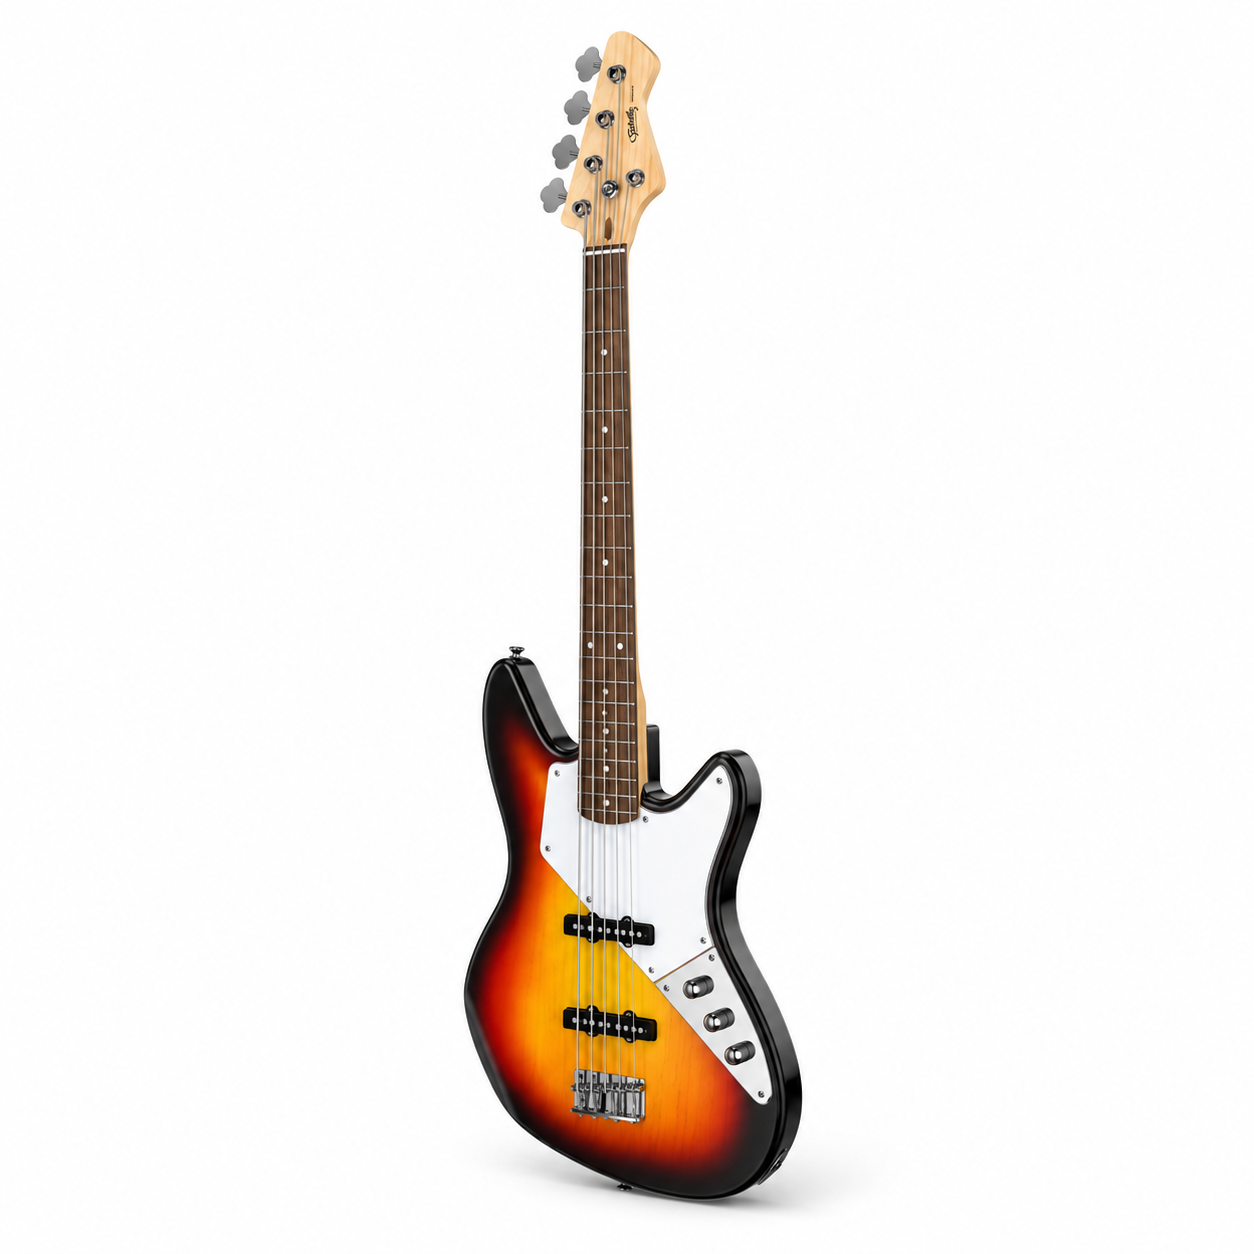
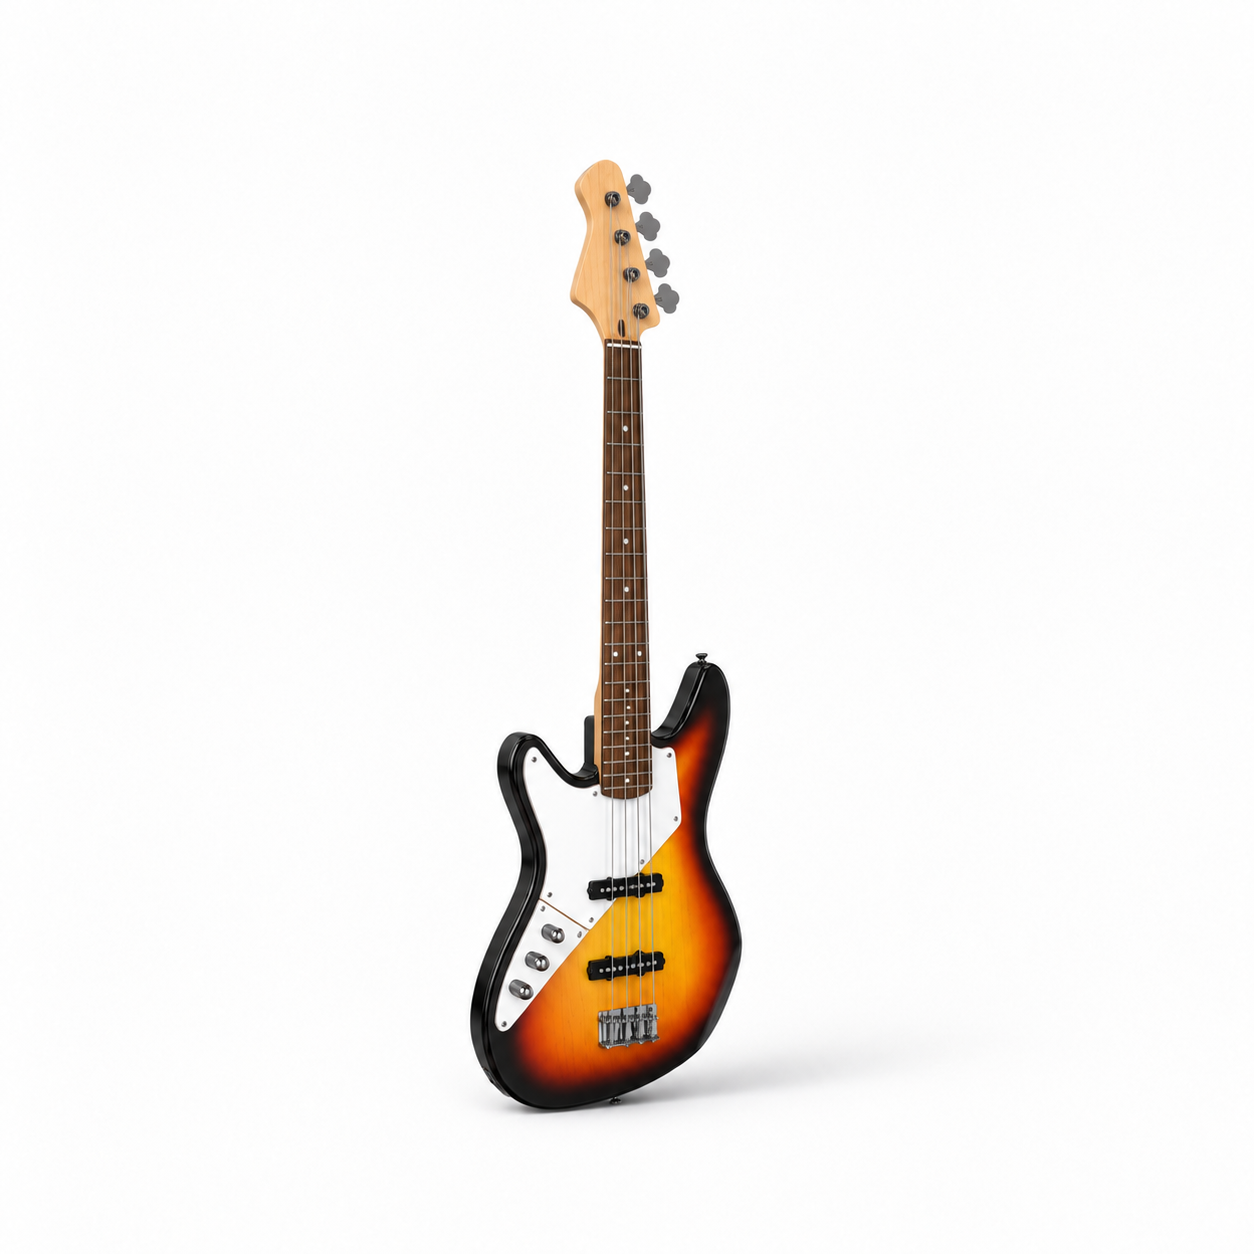
feat(tonante): categorias ganham foto de estúdio e preço perde o traço solto
As 12 categorias da home trocam o PNG recortado por foto de estúdio com
ciclorama e sombra de contato. Como a arte agora traz o próprio fundo, ela
preenche o círculo inteiro (object-cover, sem multiply): com `contain` a
borda do quadrado branco aparecia contra o cinza do card e lia como imagem
cortada do lado direito. Os ajustes de enquadramento (crop/zoom/focus/flip/
offsetX) saem junto — recortar de novo comeria a sombra, que é metade do
desenho da foto.

Entram também as artes de Viola (era fallback) e Microfone.

No card v2, o riscado do preço antigo só aparece quando existe preço antigo.
A linha reserva altura mesmo sem promoção, para a fileira de preços não ficar
em serra, mas o `line-through` estava aplicado sempre e riscava o espaço em
branco — virava um tracinho solto embaixo da avaliação.

Changed region(s): [[0.3732, 0.0311, 0.6531, 0.9641]]

diff --git a/empresas/tonante/projetos/website/versoes/v1/src/app/v2/CategoriasV2.tsx b/empresas/tonante/projetos/website/versoes/v1/src/app/v2/CategoriasV2.tsx
@@ -19,7 +19,12 @@ const fallback = (category: string, subMatch?: string) => {
 };
 
 /* Instrumento é alto e fino: em `contain` ele vira um palito no card.
-   `crop` enquadra o corpo (parte mais larga) e deixa o braço sair pra fora. */
+   `crop` enquadra o corpo (parte mais larga) e deixa o braço sair pra fora.
+
+   As artes de estúdio (set/2026) já vêm quadradas, com o produto na escala certa
+   e sombra de contato no chão branco, então elas entram sem crop, zoom ou flip —
+   recortar de novo cortaria a sombra, que é metade do desenho da foto. As props
+   continuam aqui para quando alguma categoria voltar a usar arte recortada. */
 type Cat = {
   label: string;
   art: string;
@@ -40,20 +45,17 @@ type Cat = {
 
 const CATS: Cat[] = [
   /* 1ª linha — instrumentos, na ordem de tamanho do catálogo */
-  { crop: true, focus: "50% 100%", zoom: 1.4, label: "Violões", art: "/categorias/violao.png", href: getCatalogHref({ category: "Violões" }), fallbackImg: fallback("Violões") },
-  /* /categorias/guitarra.png é um contrabaixo preto (4 cordas, 4 tarraxas em
-     linha, corpo Jazz Bass) — mesmo instrumento do card ao lado. Até a arte
-     certa existir, cai na foto de uma guitarra de verdade do catálogo. */
-  { crop: true, focus: "50% 100%", zoom: 1.4, label: "Guitarras", art: "/categorias/guitarra-eletrica.png", href: getCatalogHref({ category: "Guitarras" }), fallbackImg: fallback("Guitarras", "star light") },
-  { crop: true, focus: "50% 100%", zoom: 1.4, flip: true, offsetX: 3.5, label: "Contrabaixos", art: "/categorias/contrabaixo.png", href: getCatalogHref({ category: "Contrabaixos" }), fallbackImg: fallback("Contrabaixos") },
+  { label: "Violões", art: "/categorias/violao.png", href: getCatalogHref({ category: "Violões" }), fallbackImg: fallback("Violões") },
+  { label: "Guitarras", art: "/categorias/guitarra-eletrica.png", href: getCatalogHref({ category: "Guitarras" }), fallbackImg: fallback("Guitarras", "star light") },
+  { label: "Contrabaixos", art: "/categorias/contrabaixo.png", href: getCatalogHref({ category: "Contrabaixos" }), fallbackImg: fallback("Contrabaixos") },
   /* Baterias é linha própria da Tonante (Sonora) e não aparecia na home */
   { label: "Baterias", art: "/categorias/bateria.png", href: getCatalogHref({ category: "Baterias" }), fallbackImg: fallback("Baterias") },
   /* Violas e ukuleles moram dentro de "Violões": sem vitrine aqui ninguém acha */
-  { crop: true, focus: "50% 100%", zoom: 1.4, offsetX: 8, label: "Violas", art: "/categorias/viola.png", href: getCatalogHref({ category: "Violões", search: "viola caipira" }), fallbackImg: fallback("Violões", "viola ") },
-  { crop: true, focus: "50% 100%", zoom: 1.4, label: "Ukuleles", art: "/categorias/ukulele.png", href: getCatalogHref({ category: "Violões", search: "ukulele" }), fallbackImg: fallback("Violões", "ukulele") },
+  { label: "Violas", art: "/categorias/viola.png", href: getCatalogHref({ category: "Violões", search: "viola caipira" }), fallbackImg: fallback("Violões", "viola ") },
+  { label: "Ukuleles", art: "/categorias/ukulele.png", href: getCatalogHref({ category: "Violões", search: "ukulele" }), fallbackImg: fallback("Violões", "ukulele") },
 
   /* 2ª linha — o que se compra junto do instrumento */
-  { artScale: 0.85, label: "Cordas & Encordoamentos", art: "/categorias/encordoamento.png", href: getCatalogHref({ category: "Cordas & Encordoamentos" }), fallbackImg: fallback("Cordas & Encordoamentos") },
+  { label: "Cordas & Encordoamentos", art: "/categorias/encordoamento.png", href: getCatalogHref({ category: "Cordas & Encordoamentos" }), fallbackImg: fallback("Cordas & Encordoamentos") },
   { label: "Suportes & Pedestais", art: "/categorias/suporte.png", href: getCatalogHref({ category: "Suportes" }), fallbackImg: fallback("Suportes") },
   { label: "Correias", art: "/categorias/correias.png", href: getCatalogHref({ category: "Acessórios", search: "correia" }), fallbackImg: fallback("Acessórios", "correia") },
   { label: "Cabos", art: "/categorias/cabos.png", href: getCatalogHref({ category: "Acessórios", search: "cabo" }), fallbackImg: fallback("Acessórios", "shogun") },
@@ -86,12 +88,14 @@ function CatCard({ cat, round }: { cat: Cat; round: boolean }) {
       <div
         className={
           round
-            ? `flex aspect-square w-full ${cat.crop ? "items-end" : "items-center"} justify-center overflow-hidden rounded-full p-6 transition-colors`
+            ? `flex aspect-square w-full ${cat.crop ? "items-end" : "items-center"} justify-center overflow-hidden rounded-full transition-colors`
             : "flex min-h-0 w-full flex-1 items-end justify-center overflow-hidden"
         }
         style={
           round
-            ? { background: "var(--surface-2)" }
+            /* a arte de estúdio já traz o próprio fundo; o círculo só precisa de
+               um contorno pra não sumir na página branca */
+            ? { background: "#ffffff", border: "1px solid var(--edge)" }
             : undefined
         }
       >
@@ -118,9 +122,16 @@ function CatCard({ cat, round }: { cat: Cat; round: boolean }) {
             alt=""
             aria-hidden="true"
             onError={() => setSrc(cat.fallbackImg)}
-            className={`max-h-[86%] w-auto max-w-[70%] object-contain ${round ? "object-center" : "object-bottom"}`}
+            /* no círculo a foto preenche tudo (object-cover): com `contain` o
+               quadrado branco da arte aparecia recortado contra o fundo do
+               card, e lia como imagem cortada do lado direito. */
+            className={
+              round
+                ? "h-full w-full object-cover object-center"
+                : "max-h-[92%] w-auto max-w-[80%] object-contain object-bottom"
+            }
             style={{
-              mixBlendMode: "multiply",
+              mixBlendMode: round ? undefined : "multiply",
               transform: `translateX(${cat.offsetX ?? 0}%) scale(${(cat.artScale ?? 1) * (hover ? 1.06 : 1)})${cat.flip ? " scaleX(-1)" : ""}`,
               transformOrigin: round ? "50% 50%" : "50% 100%",
               transition: "transform .45s ease-out",

diff --git a/empresas/tonante/projetos/website/versoes/v1/src/app/v2/HomeV2.tsx b/empresas/tonante/projetos/website/versoes/v1/src/app/v2/HomeV2.tsx
@@ -19,7 +19,7 @@ import {
   selecionar,
   lancamentos,
   maisVendidos,
-  primeiroInstrumento,
+  PRIMEIRO_VIOLAO,
 } from "./curadoria";
 
 /* HomeV2 — home do site.
@@ -57,12 +57,13 @@ import {
 
 const promoIds = CAMPANHA_ATIVA.produtos;
 
-/* Ordem de ESCOLHA, que não é a ordem em que as dobras aparecem: quem tem o
-   estoque mais estreito escolhe primeiro. Novidade é o que a loja marcou como
-   novidade — doze produtos — enquanto "primeiro violão" tem setenta e oito
-   violões de entrada pra escolher. Deixando o primeiro violão na frente, ele
-   levava quase todos os marcados e a dobra Novidades terminava preenchida
-   pelo catálogo geral, sem a pill "Novidade" que o card promete. */
+/* Ordem de ESCOLHA, que não é a ordem em que as dobras aparecem.
+   "Seu primeiro violão" escolhe primeiro: a dobra é os doze violões mais
+   baratos do catálogo, do mais barato ao mais caro, e qualquer item cedido
+   pra promoção ou pra novidade a obriga a completar com um violão mais caro
+   — aí ela deixa de ser o que promete. Sobram treze instrumentos marcados
+   como novidade fora desses doze, o bastante pra dobra Novidades continuar
+   inteira com a pill que o card estampa. */
 /* Pré-venda sai de PreOrderData, não da curadoria: é uma lista editorial com
    data de lançamento e lote, a mesma que abre o card de reserva na PDP. Sem
    dobra própria, esses seis produtos não apareciam em lugar nenhum da home —
@@ -74,12 +75,12 @@ const preVendaTodos = new Set(PRE_ORDER_ITEMS.map((item) => item.productId));
    miniatura embaixo da foto. */
 const preVendaIds = idsDe(selecionar({ pool: catalogo.filter((p) => preVendaTodos.has(p.id)), n: 12 }));
 
-const novidadesIds = idsDe(lancamentos(9, [...promoIds, ...preVendaIds]));
-
-const iniciantes = primeiroInstrumento(12, 1200, [...promoIds, ...preVendaIds, ...novidadesIds]);
+const iniciantes = PRIMEIRO_VIOLAO;
 const iniciantesIds = idsDe(iniciantes);
 
-const usadosAteAqui = [...promoIds, ...preVendaIds, ...novidadesIds, ...iniciantesIds];
+const novidadesIds = idsDe(lancamentos(9, [...iniciantesIds, ...promoIds, ...preVendaIds]));
+
+const usadosAteAqui = [...iniciantesIds, ...promoIds, ...preVendaIds, ...novidadesIds];
 
 const topIds = idsDe(maisVendidos(12, usadosAteAqui));
 /* seleção fixa, escolhida pela foto — ver ACESSORIOS_BONITOS em v2/curadoria.ts */

diff --git a/empresas/tonante/projetos/website/versoes/v1/src/app/v2/curadoria.ts b/empresas/tonante/projetos/website/versoes/v1/src/app/v2/curadoria.ts
@@ -320,7 +320,17 @@ export function instrumentos(n = 12, categorias = CATEGORIAS_INSTRUMENTO, exceto
   });
 }
 
-/** Primeiro instrumento: violão de entrada, ordenado por preço. */
+/** Primeiro violão: só violão, os mais baratos, do mais barato ao mais caro.
+ *
+ *  Duas coisas que a versão anterior errava. A categoria "Violões" do catálogo
+ *  guarda cavaco, viola e ukulele (25 dos 78 itens) — a dobra prometia
+ *  primeiro violão e mostrava ukulele, então aqui o nome tem que ABRIR com
+ *  violão. E a ordem era por `peso` (apelo + review + sorteio) e só depois
+ *  reordenada por preço: a fileira saía crescente, mas não eram os mais
+ *  baratos. Quem nunca comprou instrumento decide por preço, então o corte é
+ *  preço puro. Sem sorteio do dia: preço não é vitrine, é ranking. */
+const NOME_ABRE_COM_VIOLAO = /^violao/;
+
 export function primeiroInstrumento(n = 12, teto = 1200, exceto: number[] = []) {
   const bloqueados = new Set(exceto);
   return catalogo
@@ -328,13 +338,20 @@ export function primeiroInstrumento(n = 12, teto = 1200, exceto: number[] = []) 
       (p) =>
         p.category === "Violões" &&
         tipoDoProduto(p) === "instrumento" &&
+        NOME_ABRE_COM_VIOLAO.test(semAcento(p.name)) &&
         p.priceNum <= teto &&
         !bloqueados.has(p.id),
     )
-    .sort((a, b) => peso(b) - peso(a))
-    .slice(0, n)
-    .sort((a, b) => a.priceNum - b.priceNum);
+    .sort((a, b) => a.priceNum - b.priceNum)
+    .slice(0, n);
 }
+
+/* A dobra "Seu primeiro violão" escolhe ANTES de todas as outras da home.
+   Preço é o recorte dela: se ela ceder um violão barato pra promoção ou pra
+   novidade, completa a fileira com o 13º mais barato e a dobra deixa de ser
+   "os mais baratos". As outras seleções recebem estes ids em `exceto`. */
+export const PRIMEIRO_VIOLAO = primeiroInstrumento(12);
+export const PRIMEIRO_VIOLAO_IDS = PRIMEIRO_VIOLAO.map((p) => p.id);
 
 /** O que se leva junto pra tocar hoje: microfone, afinador, correia, palheta,
     cabo — nessa ordem de apelo. Suporte entra, mas por último e pouco. */

diff --git a/empresas/tonante/projetos/website/versoes/v1/src/app/v2/OfertasV2.tsx b/empresas/tonante/projetos/website/versoes/v1/src/app/v2/OfertasV2.tsx
@@ -4,7 +4,7 @@ import { useMemo } from "react";
 import { BannerShelf, type ShelfBanner } from "./BannerShelf";
 import { allProducts, type Product } from "../components/productsData";
 import { getCatalogHref, getVisibleCatalogProducts } from "../components/productPresentation";
-import { primeiroInstrumento } from "./curadoria";
+import { PRIMEIRO_VIOLAO } from "./curadoria";
 import { formatBRL, getPixPrice } from "../components/productEnhancements";
 
 /* OfertasV2 — prateleira com banner fixo à direita + trilho de produtos.
@@ -30,8 +30,8 @@ const BANNER: Omit<ShelfBanner, "headline"> = {
 };
 
 interface OfertasV2Props {
-  /** seleção vinda da home (ver v2/curadoria.ts). Sem ela, cai nos violões de
-      entrada do catálogo — a seção nunca aparece vazia. */
+  /** seleção vinda da home (ver v2/curadoria.ts). Sem ela, cai nos doze
+      violões mais baratos do catálogo — a seção nunca aparece vazia. */
   productIds?: number[];
 }
 
@@ -41,7 +41,7 @@ export function OfertasV2({ productIds }: OfertasV2Props) {
     const escolhidos = (productIds ?? [])
       .map((id) => visivel.find((p) => p.id === id))
       .filter(Boolean) as Product[];
-    return escolhidos.length > 0 ? escolhidos : primeiroInstrumento(12);
+    return escolhidos.length > 0 ? escolhidos : PRIMEIRO_VIOLAO;
   }, [productIds]);
 
   /* mesmo preço que o card mostra (pix), senão a arte promete um valor e o

diff --git a/empresas/tonante/projetos/website/versoes/v1/src/app/v2/ProductCardV2.tsx b/empresas/tonante/projetos/website/versoes/v1/src/app/v2/ProductCardV2.tsx
@@ -354,7 +354,20 @@ export function ProductCardV2({ product: base, href, rank, onAdd, className = ""
             mista, os cards com promoção empurravam o preço 17px pra baixo e a
             linha de preço da dobra voltava a ficar em serra — o mesmo defeito
             que a faixa de variantes tinha. */}
-        <div className="num" style={{ fontFamily: "var(--font-family-inter)", fontSize: "13px", color: "#8a8a8a", textDecoration: "line-through", lineHeight: 1.3, minHeight: "17px" }}>
+        <div
+          className="num"
+          style={{
+            fontFamily: "var(--font-family-inter)",
+            fontSize: "13px",
+            color: "#8a8a8a",
+            /* o riscado só existe quando há preço antigo: sobre o espaço em
+               branco que reserva a altura, ele virava um tracinho solto no
+               card sem promoção. */
+            textDecoration: discount > 0 && p.oldPriceNum ? "line-through" : "none",
+            lineHeight: 1.3,
+            minHeight: "17px",
+          }}
+        >
           {discount > 0 && p.oldPriceNum ? formatBRL(p.oldPriceNum) : "\u00a0"}
         </div>
         <div className="flex flex-wrap items-baseline gap-x-2">

diff --git a/empresas/tonante/projetos/website/versoes/v1/src/app/v2/campanhas.ts b/empresas/tonante/projetos/website/versoes/v1/src/app/v2/campanhas.ts
@@ -1,4 +1,11 @@
-import { promocoes, maiorDesconto, instrumentos, idsDe, resumoDaSelecao } from "./curadoria";
+import {
+  promocoes,
+  maiorDesconto,
+  instrumentos,
+  idsDe,
+  resumoDaSelecao,
+  PRIMEIRO_VIOLAO_IDS,
+} from "./curadoria";
 
 /* Campanhas da home — o primeiro carrossel depois do hero é o primeiro
    contato: ele oferta, não cataloga. Por isso não tem filtro nem aba; ele
@@ -24,7 +31,9 @@ export type Campanha = {
 
 /* Seleção da promoção: desconto real, instrumento na frente, teto por tipo
    (ver v2/curadoria.ts) — é o que tira cabo e suporte da primeira dobra. */
-const emPromocao = promocoes(12);
+/* Os violões de entrada saem daqui: a dobra do primeiro violão escolhe por
+   preço e escolhe primeiro (ver PRIMEIRO_VIOLAO em v2/curadoria.ts). */
+const emPromocao = promocoes(12, PRIMEIRO_VIOLAO_IDS);
 const pctPromo = maiorDesconto(emPromocao);
 /* o título lê a própria seleção: prometer "contrabaixo" com a fileira cheia
    de cavaco é o mesmo erro de "Mês do Músico", só que mais caro. */
